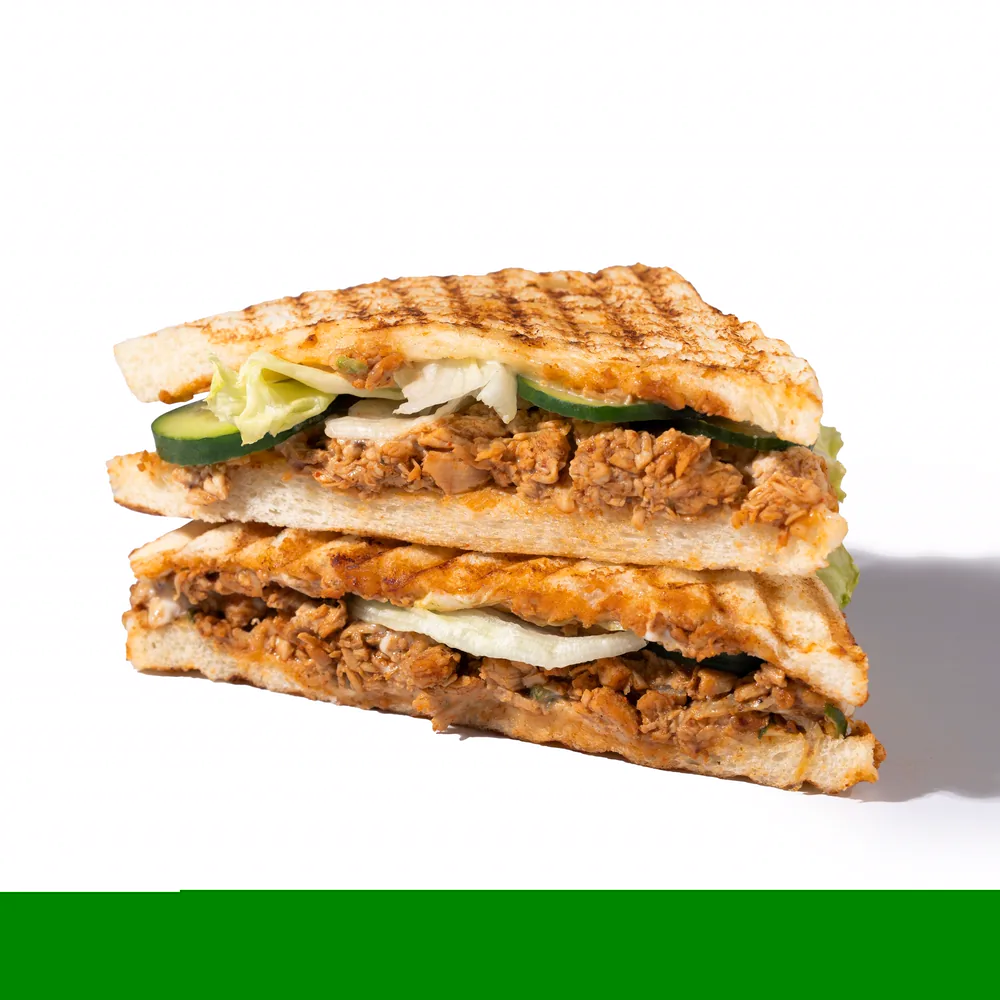
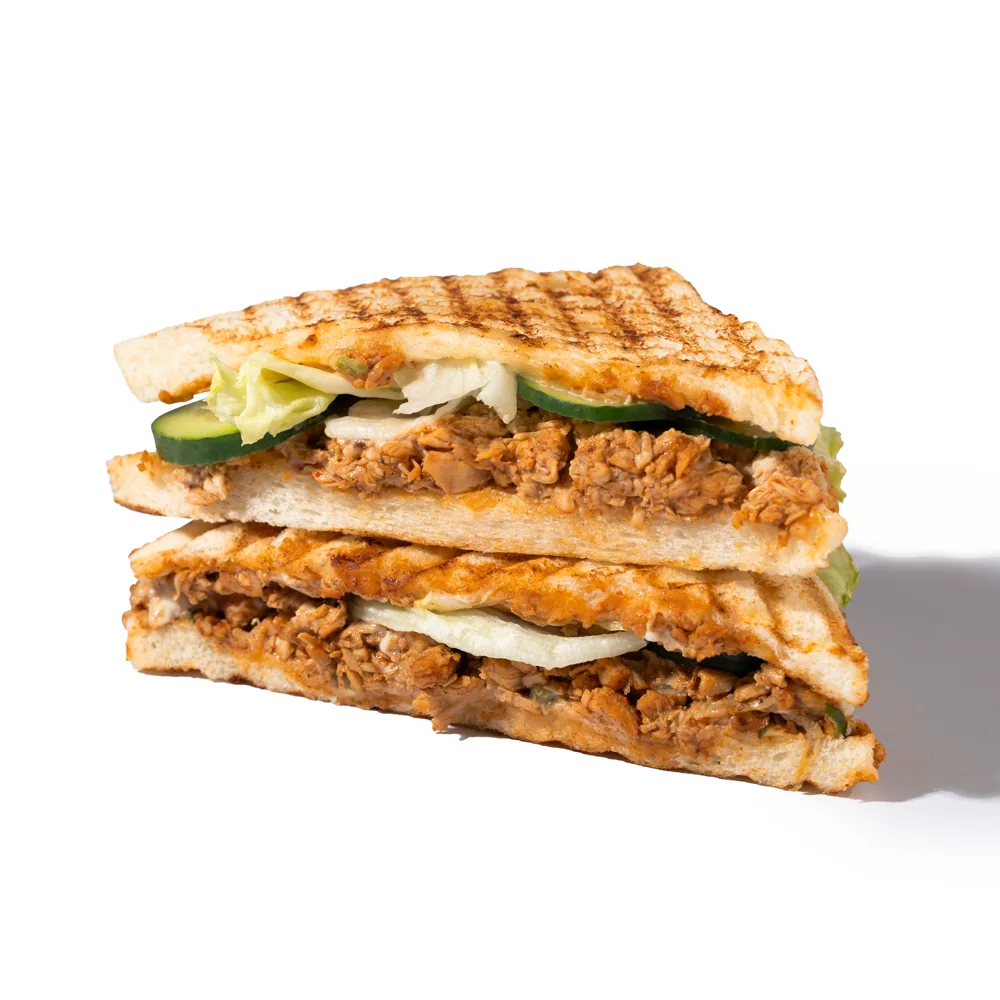
Restore the Sizzling Fajita photo and give it a second gallery shot
The webp conversion in 36716b8 left `fajita sandwich 1.webp` missing from
the working tree, so the import in productsData.js resolved to a 404 and the
card collapsed to a bare strip instead of a photo.

Re-encoded both supplied JPEGs to 1000x1000 webp (q82) to match the rest of
the catalogue - 1.1/1.3 MB of JPEG down to 67/62 kB - and added the second
shot so the product page shows a two-image gallery like the other sandwiches.

Changed region(s): [[0.0, 0.868, 1.0, 1.0]]

diff --git a/src/components/products/productsData.js b/src/components/products/productsData.js
@@ -50,9 +50,10 @@ import bakedCinnamon2 from '../../assets/category/baked cinnamon 2.webp'
 import signatureChicken1 from '../../assets/category/signature chicken 1.webp'
 import smokedTikka1 from '../../assets/category/tikka sandwich 1.webp'
 import smokedTikka2 from '../../assets/category/tikka sandwich 2.webp'
-// Note: 'fajita sandwich 2.jpg', 'iced cappuccino 1.jpg' and 'iced latte 2.jpg'
-// are corrupt on disk (all-0xFF filler, no JPEG data) so they aren't imported.
+// Note: 'iced cappuccino 1.jpg' and 'iced latte 2.jpg' are corrupt on disk
+// (all-0xFF filler, no JPEG data) so they aren't imported.
 import sizzlingFajita1 from '../../assets/category/fajita sandwich 1.webp'
+import sizzlingFajita2 from '../../assets/category/fajita sandwich 2.webp'
 import passionFruit1 from '../../assets/category/passion fruit chiller 1.webp'
 import passionFruit2 from '../../assets/category/passion fruit chiller 2.webp'
 import wildBerry1 from '../../assets/category/wild berry chiller 1.webp'
@@ -122,7 +123,7 @@ export const PRODUCTS = withPrimaryImage([
   { id: 22, name: 'Signature Chicken', price: 349, category: 'Sandwiches', type: 'Sandwiches', size: 'sm', images: [signatureChicken1], description: DESCRIPTION, reviews: REVIEWS },
   { id: 23, name: 'Classic Scrambled Egg', price: 349, category: 'Sandwiches', type: 'Sandwiches', size: 'sm', description: DESCRIPTION, reviews: REVIEWS },
   { id: 24, name: 'Smoked Tikka Melt', price: 499, category: 'Sandwiches', type: 'Sandwiches', size: 'sm', images: [smokedTikka1, smokedTikka2], description: DESCRIPTION, reviews: REVIEWS },
-  { id: 25, name: 'Sizzling Fajita', price: 499, category: 'Sandwiches', type: 'Sandwiches', size: 'sm', images: [sizzlingFajita1], description: DESCRIPTION, reviews: REVIEWS },
+  { id: 25, name: 'Sizzling Fajita', price: 499, category: 'Sandwiches', type: 'Sandwiches', size: 'sm', images: [sizzlingFajita1, sizzlingFajita2], description: DESCRIPTION, reviews: REVIEWS },
   { id: 26, name: 'Signature Beef Melt', price: 499, category: 'Sandwiches', type: 'Sandwiches', size: 'sm', description: DESCRIPTION, reviews: REVIEWS },
 
   // ---- Drinks / Hot Coffee ----
